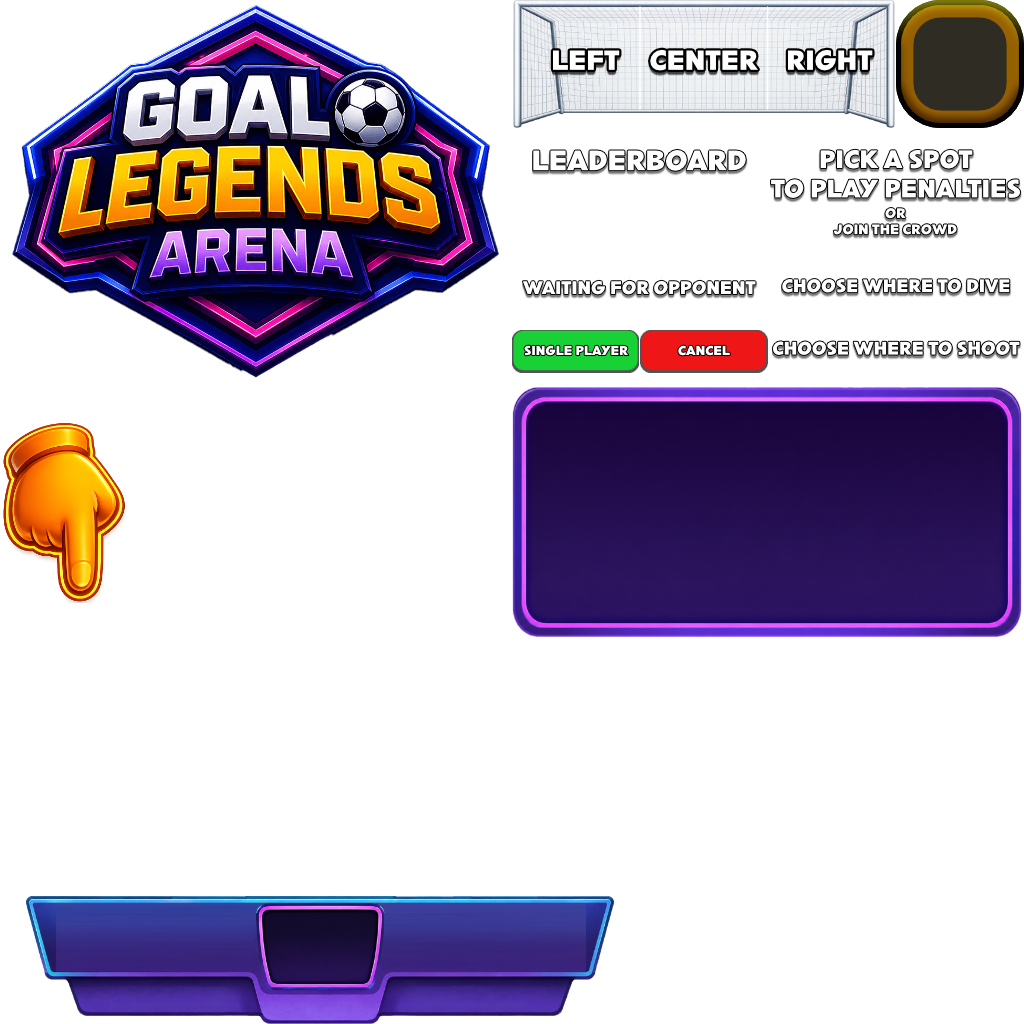
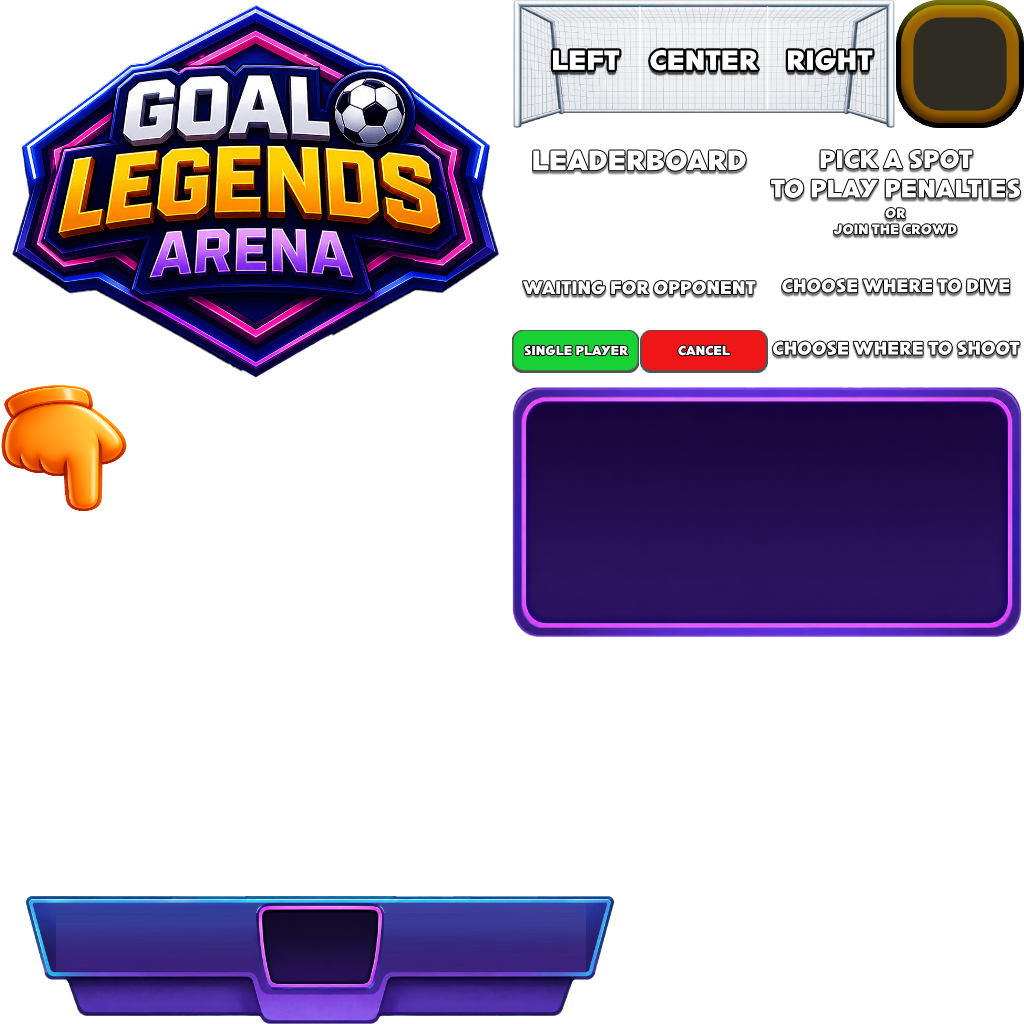
Add finger to spot indicator

Changed region(s): [[0.0, 0.375, 0.125, 0.5938]]

diff --git a/src/client/spotBillboardManager.ts b/src/client/spotBillboardManager.ts
@@ -1,0 +1,103 @@
+import {
+  engine,
+  Entity,
+  Transform,
+  MeshRenderer,
+  Material,
+  Billboard,
+  BillboardMode,
+  VisibilityComponent,
+  MaterialTransparencyMode
+} from '@dcl/sdk/ecs'
+import { Vector3, Quaternion, Color3, Color4 } from '@dcl/sdk/math'
+import { UI_ATLAS_SRC, spotBillboardPlaneUvs } from './uiAtlasStore'
+import type { ClientSnapshot } from './gameStore'
+
+const HEIGHT_ABOVE_SPOT_M = 3
+const BOB_RANGE_M = 0.3
+/** A4 = 1×1 cell → cuadrado (m). */
+const PLANE_SIZE_M = 0.5
+const BOB_HALF_CYCLE_MS = 1500
+
+let redSpot: Entity | null = null
+let blueSpot: Entity | null = null
+let redBillboard: Entity | null = null
+let blueBillboard: Entity | null = null
+
+function spotBillboardVisible(team: 'red' | 'blue', s: ClientSnapshot): boolean {
+  if (s.hasActiveMatch === 1) return false
+  if (team === 'red' && s.redAddr) return false
+  if (team === 'blue' && s.blueAddr) return false
+  return true
+}
+
+function bobOffsetY(): number {
+  return ((1 - Math.cos((Date.now() * Math.PI) / BOB_HALF_CYCLE_MS)) / 2) * BOB_RANGE_M
+}
+
+function syncBillboardToSpot(billboard: Entity, spot: Entity): void {
+  if (!Transform.has(spot) || !Transform.has(billboard)) return
+  const spotPos = Transform.get(spot).position
+  const t = Transform.getMutable(billboard)
+  t.position = Vector3.create(
+    spotPos.x,
+    spotPos.y + HEIGHT_ABOVE_SPOT_M - bobOffsetY(),
+    spotPos.z
+  )
+}
+
+function createSpotBillboard(spot: Entity): Entity {
+  const spotPos = Transform.has(spot) ? Transform.get(spot).position : Vector3.Zero()
+  const e = engine.addEntity()
+  Transform.create(e, {
+    position: Vector3.create(spotPos.x, spotPos.y + HEIGHT_ABOVE_SPOT_M, spotPos.z),
+    rotation: Quaternion.fromEulerDegrees(90, 0, 0),
+    scale: Vector3.create(PLANE_SIZE_M, PLANE_SIZE_M * 1.5, 1)
+  })
+  MeshRenderer.setPlane(e, spotBillboardPlaneUvs())
+  const atlasTex = Material.Texture.Common({ src: UI_ATLAS_SRC })
+  Material.setPbrMaterial(e, {
+    albedoColor: Color4.White(),
+    texture: atlasTex,
+    emissiveTexture: atlasTex,
+    emissiveColor: Color3.White(),
+    emissiveIntensity: 1,
+    metallic: 0,
+    roughness: 1,
+    transparencyMode: MaterialTransparencyMode.MTM_ALPHA_BLEND
+  })
+  Billboard.create(e, { billboardMode: BillboardMode.BM_Y })
+  VisibilityComponent.create(e, { visible: true })
+  return e
+}
+
+export function initSpotBillboardManager(red: Entity | undefined, blue: Entity | undefined): void {
+  redSpot = red ?? null
+  blueSpot = blue ?? null
+  if (redSpot) redBillboard = createSpotBillboard(redSpot)
+  if (blueSpot) blueBillboard = createSpotBillboard(blueSpot)
+}
+
+export function resetSpotBillboardManager(): void {
+  if (redBillboard) {
+    engine.removeEntity(redBillboard)
+    redBillboard = null
+  }
+  if (blueBillboard) {
+    engine.removeEntity(blueBillboard)
+    blueBillboard = null
+  }
+  redSpot = null
+  blueSpot = null
+}
+
+export function tickSpotBillboardManager(s: ClientSnapshot): void {
+  if (redBillboard && redSpot) {
+    syncBillboardToSpot(redBillboard, redSpot)
+    VisibilityComponent.createOrReplace(redBillboard, { visible: spotBillboardVisible('red', s) })
+  }
+  if (blueBillboard && blueSpot) {
+    syncBillboardToSpot(blueBillboard, blueSpot)
+    VisibilityComponent.createOrReplace(blueBillboard, { visible: spotBillboardVisible('blue', s) })
+  }
+}

diff --git a/src/client/setup.ts b/src/client/setup.ts
@@ -21,6 +21,7 @@ import { readPenaltySnapshot, penaltyStateEntityReady } from './gameStore'
 import { tickAudioManager } from './audioManager'
 import { initAnimationManager, tickAnimationManager } from './animationManager'
 import { tickFireworkManager } from './fireworkManager'
+import { initSpotBillboardManager, tickSpotBillboardManager } from './spotBillboardManager'
 import { markSpotClickedLocally } from './uiManager'
 
 let syncedPinged = false
@@ -62,6 +63,7 @@ export function initClient() {
   const red = findEntityByName('Red_Spot')
   registerSpotPointerHandlers(blue, 'blue', '')
   registerSpotPointerHandlers(red, 'red', '')
+  initSpotBillboardManager(red, blue)
 
   const dirs: Array<{ key: 'L' | 'C' | 'R'; pos: Vector3; scale: Vector3 }> = [
     { key: 'L', pos: AIM_COLLIDERS.L.pos, scale: AIM_COLLIDERS.L.scale },
@@ -107,6 +109,7 @@ export function initClient() {
     tickAudioManager(s)
     tickAnimationManager(s.phase)
     tickFireworkManager(s.phase)
+    tickSpotBillboardManager(s)
     if (!syncedPinged && isStateSyncronized()) {
       syncedPinged = true
       room.send('clientReadyPing', {})

diff --git a/src/client/clientSession.ts b/src/client/clientSession.ts
@@ -1,4 +1,5 @@
 import { resetSplashUi } from './uiManager'
+import { resetSpotBillboardManager } from './spotBillboardManager'
 import { resetSceneLoadManager } from './sceneLoadManager'
 import { resetNpcManager } from './npcManager'
 import { resetAudioManager } from './audioManager'
@@ -7,6 +8,7 @@ import { resetCountryPicker } from './countryStore'
 /** Reset module state on each client main() — hot reload keeps JS modules alive. */
 export function resetClientSession(): void {
   resetSplashUi()
+  resetSpotBillboardManager()
   resetCountryPicker()
   resetSceneLoadManager()
   resetNpcManager()

diff --git a/src/client/uiAtlasStore.ts b/src/client/uiAtlasStore.ts
@@ -140,6 +140,13 @@ export function leaderboardTitleBackground() {
   return uiAtlasRangeHalfBackground('E2', 'F2', true)
 }
 
+/** 3D spot billboards (UI_atlas cell A4). */
+export const SPOT_BILLBOARD_CELL = 'A4'
+
+export function spotBillboardPlaneUvs(): number[] {
+  return uiAtlasRangeToUvs(SPOT_BILLBOARD_CELL, SPOT_BILLBOARD_CELL)
+}
+
 /** Leaderboard panel frame: cell H1 split 3×3 (1–9, row-major). */
 export const LEADERBOARD_FRAME_CELL = 'H1'
 
